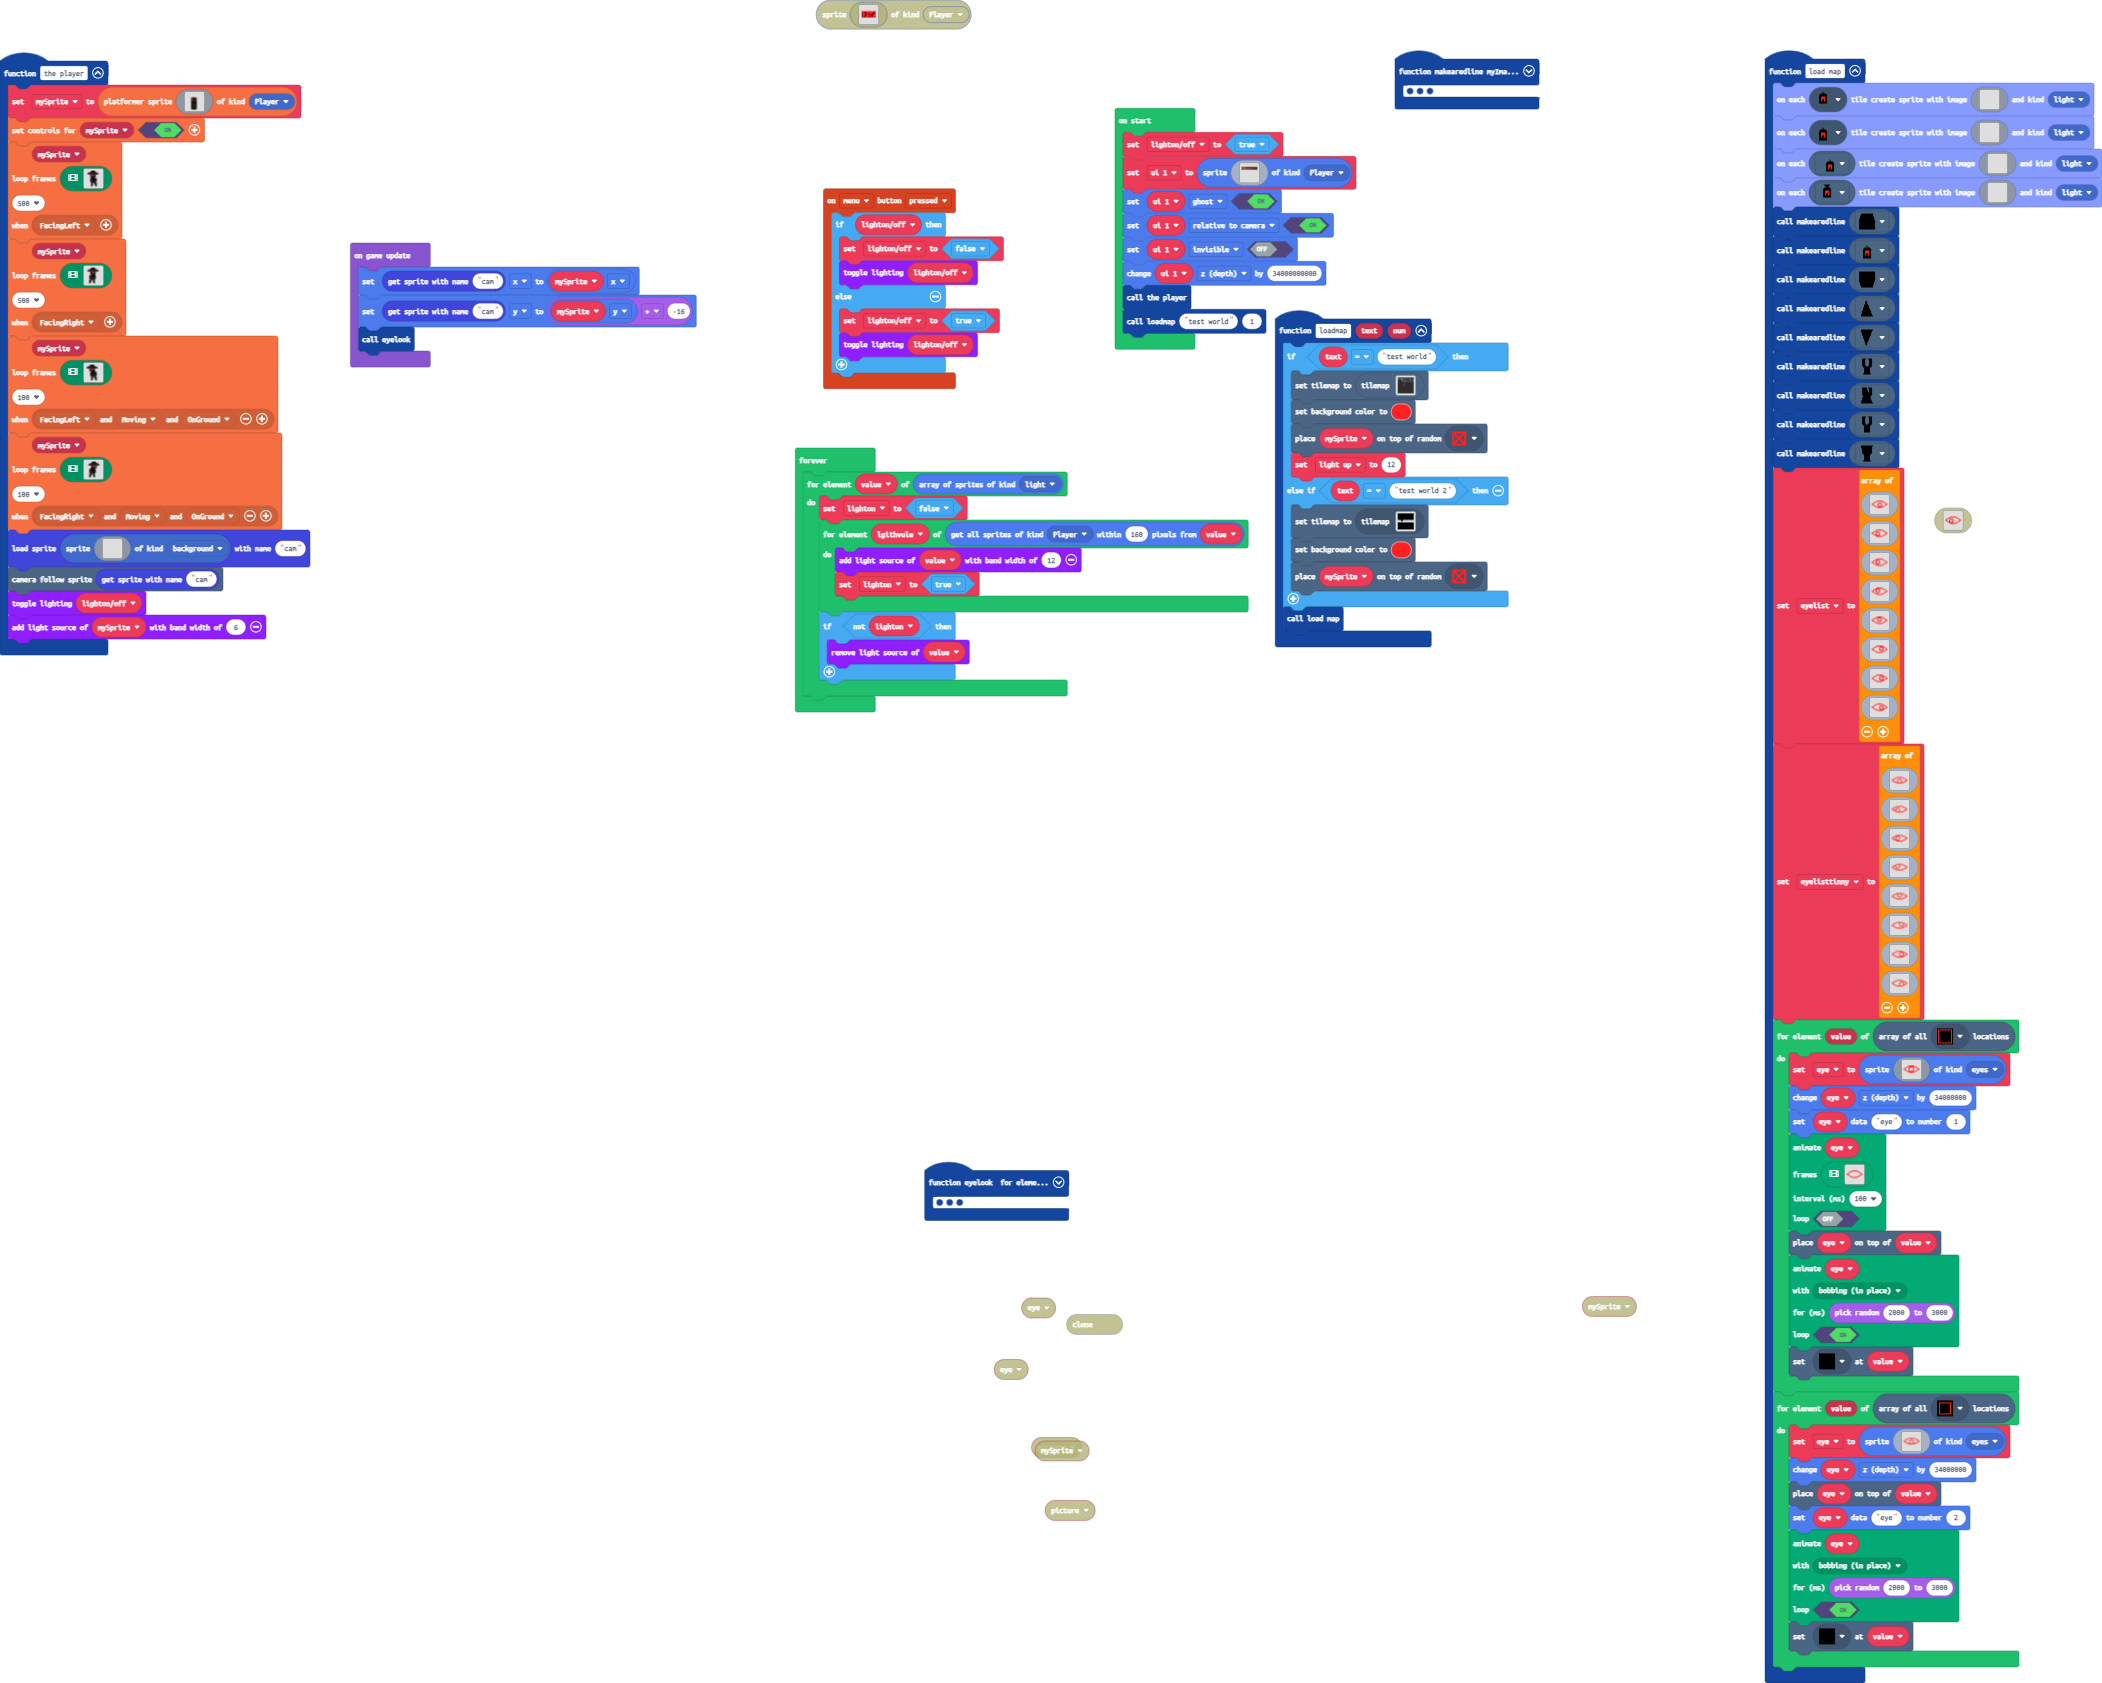
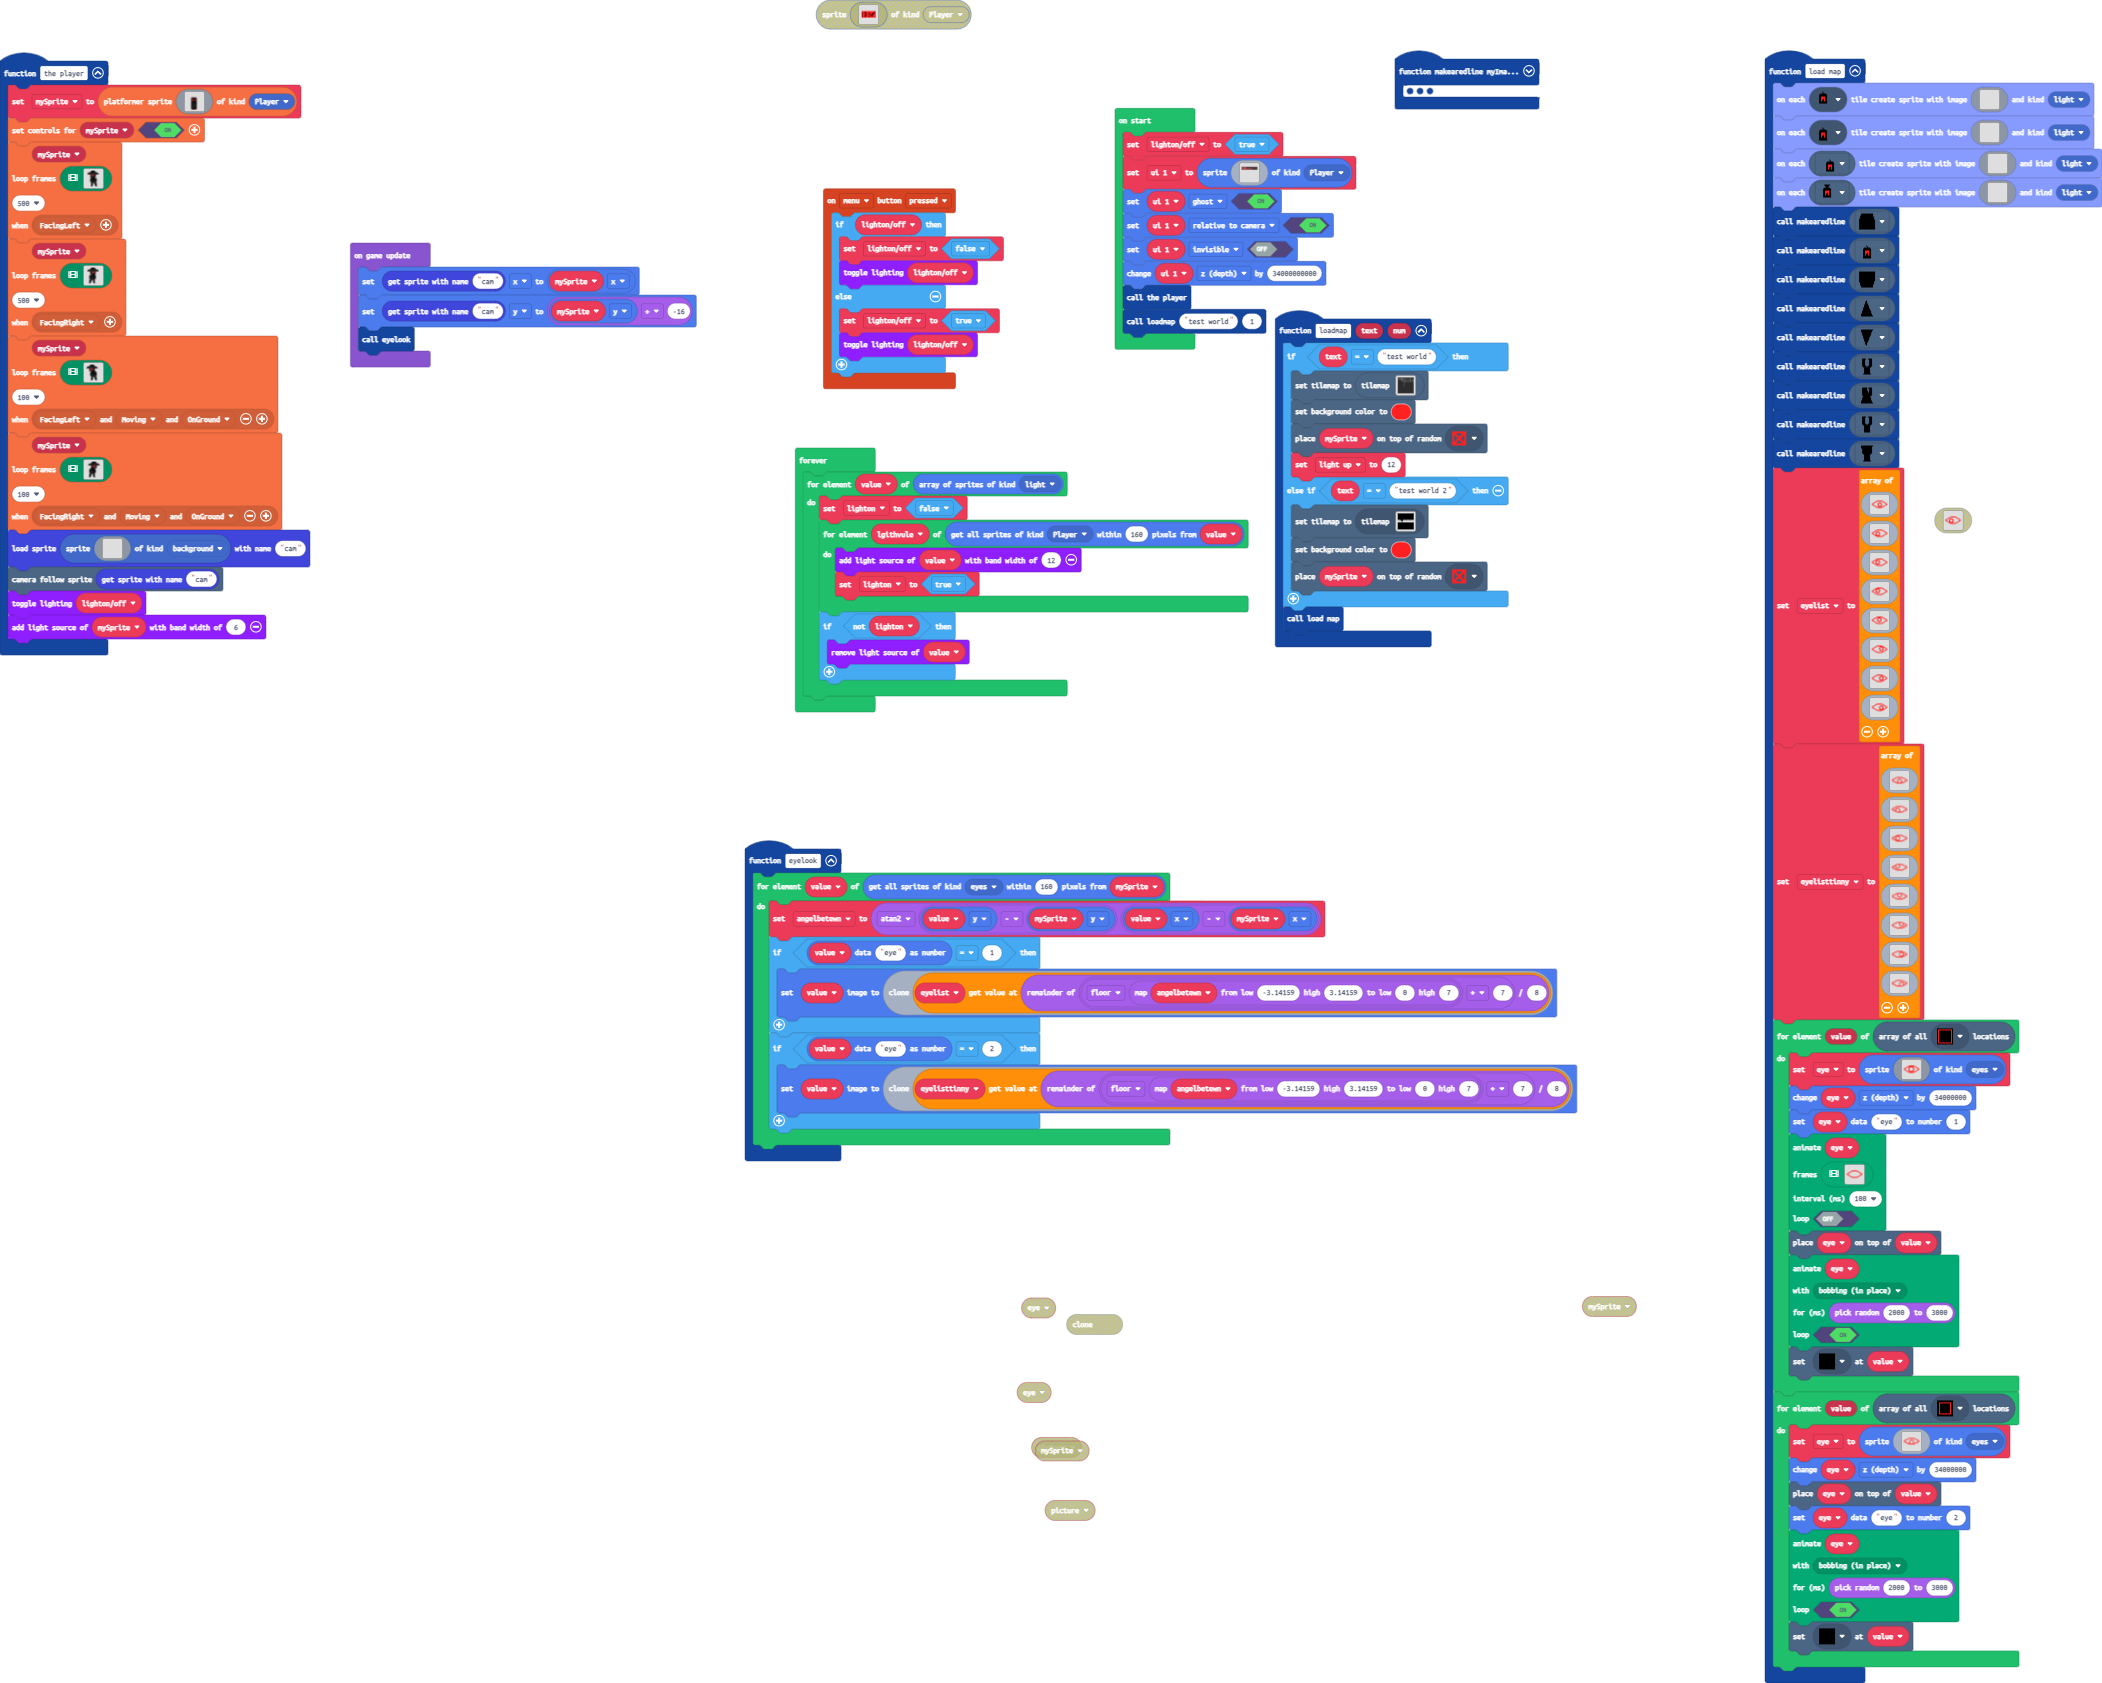
Update main.blocks, main.ts

Changed region(s): [[0.3402, 0.4944, 0.7731, 0.7415], [0.4638, 0.8033, 0.4948, 0.8342]]

diff --git a/main.ts b/main.ts
@@ -4,7 +4,7 @@ namespace SpriteKind {
     export const eyes = SpriteKind.create()
 }
 function eyelook () {
-    for (let value of sprites.allOfKind(SpriteKind.eyes)) {
+    for (let value of spriteutils.getSpritesWithin(SpriteKind.eyes, 160, mySprite)) {
         angelbetewn = Math.atan2(value.y - mySprite.y, value.x - mySprite.x)
         if (sprites.readDataNumber(value, "eye") == 1) {
             value.setImage(eyelist[(Math.floor(Math.map(angelbetewn, -3.14159, 3.14159, 0, 7)) + 7) % 8].clone())
@@ -762,8 +762,8 @@ let eye: Sprite = null
 let image2: Image = null
 let eyelisttinny: Image[] = []
 let eyelist: Image[] = []
-let mySprite: platformer.PlatformerSprite = null
 let angelbetewn = 0
+let mySprite: platformer.PlatformerSprite = null
 let lightonoff = false
 lightonoff = true
 let ui_1 = sprites.create(img`
